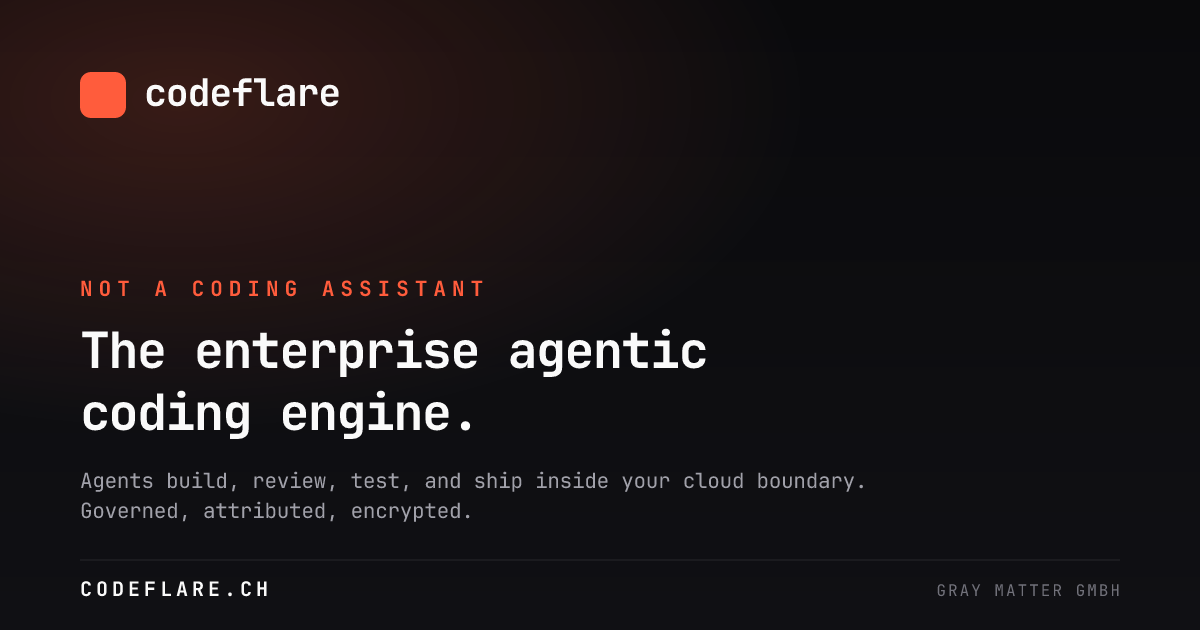
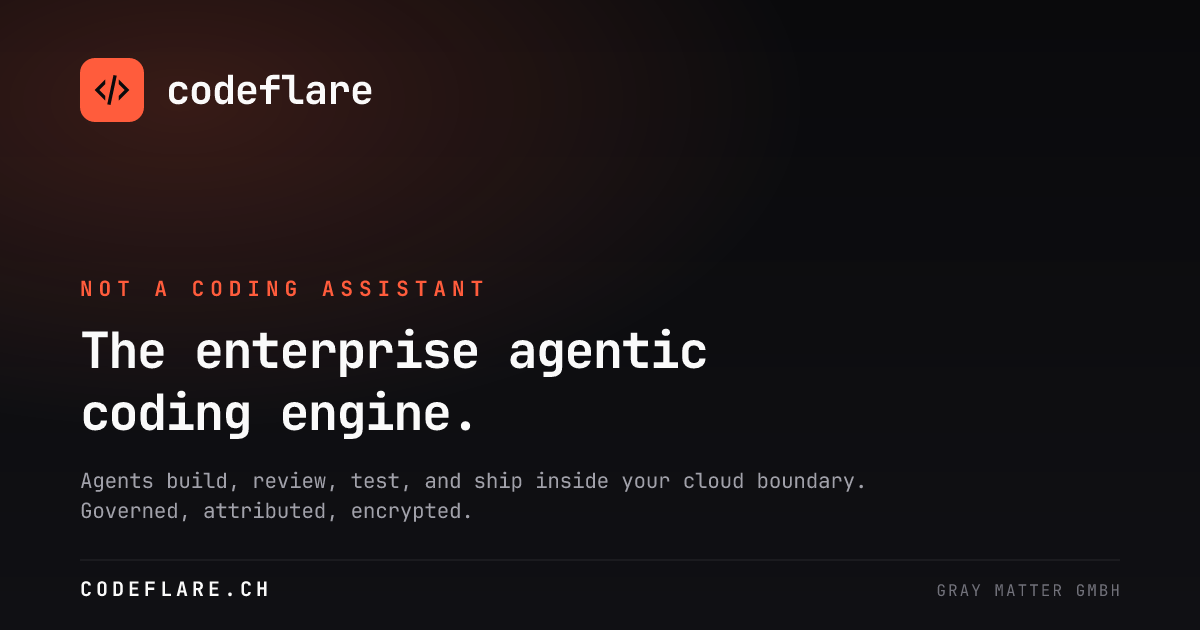
[autonomous] fix: CI test, review findings, and OG brand glyph
- user-profile.test.ts: GET /user mock user is now active; the onboarding
  tier gate (REQ-AUTH-020) correctly 403s a tier-less user, so the test
  needed an active tier. Fixes the one failing backend test.
- landing.md REQ-LANDING-003 Verification: add the seo + worker-serving
  test links (spec-reviewer).
- api-reference.md: document GET /robots.txt /sitemap.xml /llms.txt
  (doc-updater) + TOC entry.
- architecture.md: REQ-LANDING-003 in the Specification Coverage table.
- configuration.md: SEO / Discoverability section (canonical-origin
  hardcode, og.png asset, mode gating) + TOC entry.
- OG image: replace the placeholder square with the Codeflare code-glyph
  mark (coral tile, dark glyph).

Changed region(s): [[0.0617, 0.0905, 0.3083, 0.2111]]

diff --git a/src/__tests__/routes/user-profile.test.ts b/src/__tests__/routes/user-profile.test.ts
@@ -94,8 +94,17 @@ describe('User Profile Routes', () => {
     });
 
     it('returns onboardingActive true when ONBOARDING_LANDING_PAGE is active', async () => {
+      // Onboarding mode now applies the active-tier gate (REQ-AUTH-020), so the
+      // mock user must be active for GET /user to return 200; a tier-less user is
+      // correctly 403'd here, the same as a pending onboarding visitor.
       mockAuthenticateRequest.mockResolvedValue({
-        user: { email: 'test@example.com', authenticated: true, role: 'user' },
+        user: {
+          email: 'test@example.com',
+          authenticated: true,
+          role: 'user',
+          accessTier: 'advanced',
+          subscriptionTier: 'advanced',
+        },
         bucketName: 'codeflare-abc123',
       });
 

diff --git a/documentation/lanes/configuration.md b/documentation/lanes/configuration.md
@@ -9,6 +9,7 @@ Environment variables, secrets, CORS configuration, and API token permissions.
 ## Contents
 
 - [Environment Variables](#environment-variables)
+- [SEO / Discoverability](#seo--discoverability)
 - [Secrets](#secrets)
 - [Enterprise Mode Runtime Configuration](#enterprise-mode-runtime-configuration)
 - [CORS](#cors)
@@ -101,6 +102,16 @@ These env vars tune the graphify knowledge-graph build/update tooling. All are o
 | `GRAPHIFY_ARCH_EXTRA_EXCLUDES` | Additional shell-split gitignore-style patterns appended to Pi Architecture graph filters when a repo needs local noise reduction beyond the generic tests/docs/generated/config exclusions. | (unset) | no | `preseed/agents/pi/scripts/build-graphify-architecture.sh` | [REQ-AGENT-043](../../sdd/spec/agents.md#req-agent-043-graphify-build-mode-dispatch) |
 | `GRAPHIFY_ARCH_KEEP_ISOLATES` | When truthy (`1`, `true`, `yes`), keeps isolated files in Pi Architecture graph output instead of omitting them from the module dependency map. | unset (omit isolates) | no | `preseed/agents/pi/scripts/build-graphify-architecture.sh` | [REQ-AGENT-043](../../sdd/spec/agents.md#req-agent-043-graphify-build-mode-dispatch) |
 | `GRAPHIFY_SEMANTIC_MAX_PARALLEL` | Maximum number of semantic-extraction Task subagents dispatched per wave by the `/graphify` skill. Caps the parallel fan-out on full-semantic builds so a dense repo (with hundreds of non-code files) cannot flood the Task-tool concurrency or trip Anthropic API rate limits in a single burst. Higher values finish a build faster; lower values smooth the rate-limit / token-budget surface. | `10` | no | `preseed/agents/claude/skills/graphify/SKILL.md` Step B2 | (graphify skill operational knob) |
+
+---
+
+## SEO / Discoverability
+
+No environment variable governs the discoverability documents ([REQ-LANDING-003](../../sdd/spec/landing.md#req-landing-003-landing-social-share-and-search-metadata)); these are operator-facing constants and assets, called out here because a fork or alternate-domain deployment must know they exist.
+
+- **Canonical origin** — the `robots.txt` / `sitemap.xml` / `llms.txt` served by the Worker, and the JSON-LD + canonical/OG tags emitted by the landing, all use the origin **hardcoded** to `https://codeflare.ch` (`CANONICAL_ORIGIN` in `src/lib/seo.ts`, mirrored in `landing/src/layouts/BaseLayout.astro`). This is intentional: an integration/staging host must not advertise itself as canonical or get indexed as duplicate content. A fork that deploys to a different root domain must update this constant before shipping.
+- **OG / social-share image** — served as a static asset from `web-ui/public/og.png` (1200x630) at `/og.png`, with the editable source at `web-ui/public/og.svg`. Replace these to customise the social-share card.
+- **Mode gating** — the root documents are served only when the public marketing landing is active (SaaS or onboarding mode); default/enterprise (private app) deployments return a disallow-all `robots.txt` and 404 the sitemap/llms, so a private deployment is never advertised to crawlers.
 
 ---
 

diff --git a/documentation/lanes/api-reference.md b/documentation/lanes/api-reference.md
@@ -16,6 +16,7 @@ Complete API endpoint reference for the Codeflare Worker.
 - [Billing](#billing)
 - [Deploy Keys](#deploy-keys)
 - [Public (Unauthenticated)](#public-unauthenticated)
+- [Discoverability Documents](#discoverability-documents)
 - [Setup](#setup)
 - [Storage (R2 File Browser)](#storage-r2-file-browser)
 - [Presets](#presets)
@@ -140,6 +141,16 @@ Note: `SETUP_ERROR` uses a different response shape: `{ success: false, steps, e
 | POST | `/public/waitlist` | none | [REQ-SETUP-012](../../sdd/spec/setup.md#req-setup-012-setup-wizard-step-sequence), [REQ-SEC-007](../../sdd/spec/security.md#req-sec-007-rate-limiting-infrastructure) | Waitlist signup with Turnstile (rate-limited 1/day by IP) |
 | GET | `/public/contact-config` | none | [REQ-LANDING-002](../../sdd/spec/landing.md#req-landing-002-demo-request-contact-pipeline) | Turnstile site key for the landing contact form (SaaS or onboarding mode) |
 | POST | `/public/contact` | none | [REQ-LANDING-002](../../sdd/spec/landing.md#req-landing-002-demo-request-contact-pipeline), [REQ-SEC-007](../../sdd/spec/security.md#req-sec-007-rate-limiting-infrastructure) | Demo-request submission: Turnstile-verified, relayed to admins as email, never persisted (rate-limited 5/min) |
+
+### Discoverability Documents
+
+Served at the deployment root by the Worker (in `src/index.ts`, before the setup-completion gate so crawlers reach them on a fresh instance). The response depends on deployment mode; content is built by pure functions in `src/lib/seo.ts`, with the canonical origin hardcoded to `https://codeflare.ch` so integration/staging hosts never advertise themselves as canonical.
+
+| Method | Endpoint | Public mode (SaaS / onboarding) | Private mode (default / enterprise) | Implements |
+|--------|----------|----------|----------|------------|
+| GET | `/robots.txt` | `200` — allows the marketing surface, excludes `/app /api /auth /login /setup`, points at `/sitemap.xml` | `200` — disallow-all | [REQ-LANDING-003](../../sdd/spec/landing.md#req-landing-003-landing-social-share-and-search-metadata) |
+| GET | `/sitemap.xml` | `200` — canonical marketing routes (login excluded, it is noindex) | `404` | [REQ-LANDING-003](../../sdd/spec/landing.md#req-landing-003-landing-social-share-and-search-metadata) |
+| GET | `/llms.txt` | `200` — llmstxt.org-convention product summary | `404` | [REQ-LANDING-003](../../sdd/spec/landing.md#req-landing-003-landing-social-share-and-search-metadata) |
 
 ### Setup
 

diff --git a/documentation/lanes/architecture.md b/documentation/lanes/architecture.md
@@ -452,6 +452,7 @@ Architectural principles and design rationale.
 - [REQ-TERM-010](../../sdd/spec/terminal.md#req-term-010-session-presets-saved-tab-configurations) - Session presets (saved tab configurations)
 - [REQ-LANDING-001](../../sdd/spec/landing.md#req-landing-001-mode-aware-public-landing-serving) - Mode-aware public landing serving
 - [REQ-LANDING-002](../../sdd/spec/landing.md#req-landing-002-demo-request-contact-pipeline) - Demo-request contact pipeline (contact relay data flow)
+- [REQ-LANDING-003](../../sdd/spec/landing.md#req-landing-003-landing-social-share-and-search-metadata) - Landing social-share and search metadata (discoverability documents, JSON-LD, OG card)
 - [REQ-AUTH-020](../../sdd/spec/authentication.md#req-auth-020-onboarding-mode-landing-integrated-login-and-access-request-flow) - Onboarding `/login` serving and post-OAuth access-request flow
 
 ---

diff --git a/sdd/spec/landing.md b/sdd/spec/landing.md
@@ -149,6 +149,6 @@ Public enterprise marketing landing page (codeflare.ch), its mode-aware serving,
 
 **Dependencies:** [REQ-LANDING-001](#req-landing-001-mode-aware-public-landing-serving)
 
-**Verification:** [Metadata render tests](../../landing/src/__tests__/index-page.test.ts)
+**Verification:** [Metadata render tests](../../landing/src/__tests__/index-page.test.ts), [SEO document unit tests](../../src/__tests__/lib/seo.test.ts), [Worker discoverability serving tests](../../src/__tests__/index.test.ts)
 
 **Status:** Implemented
